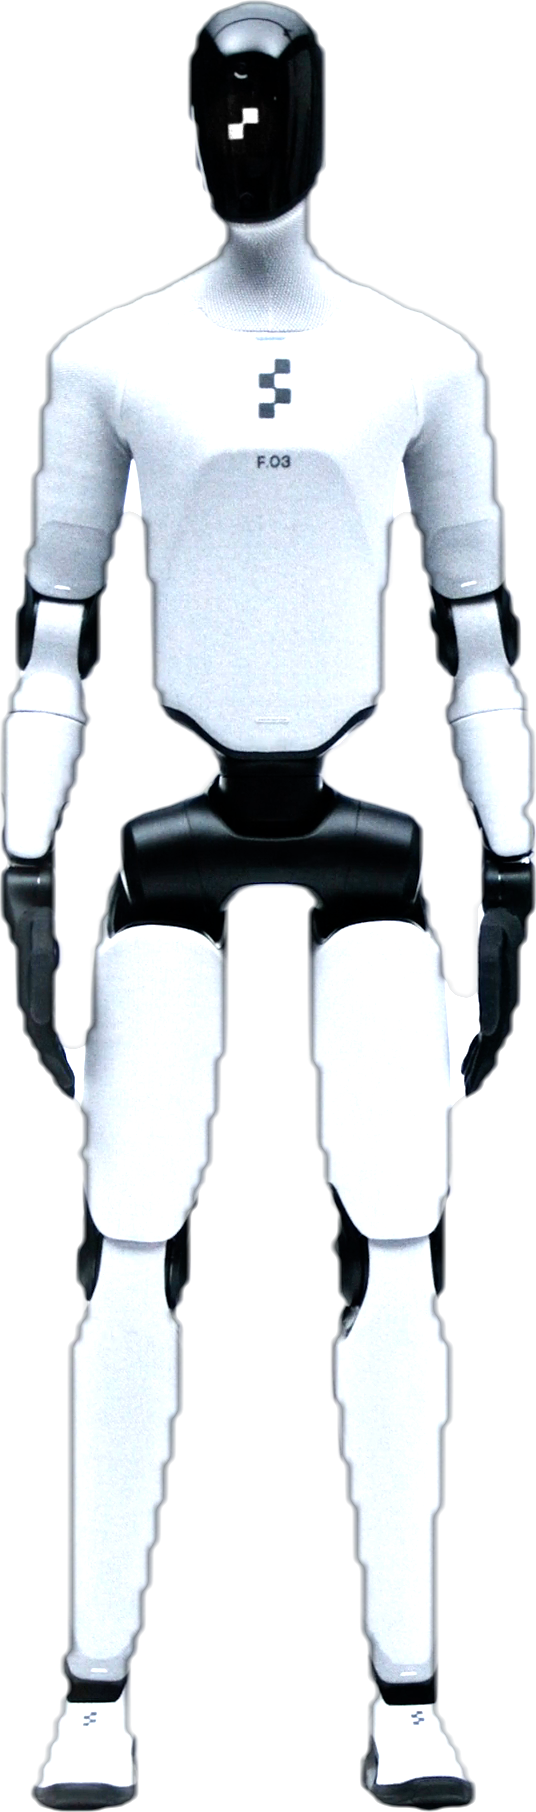
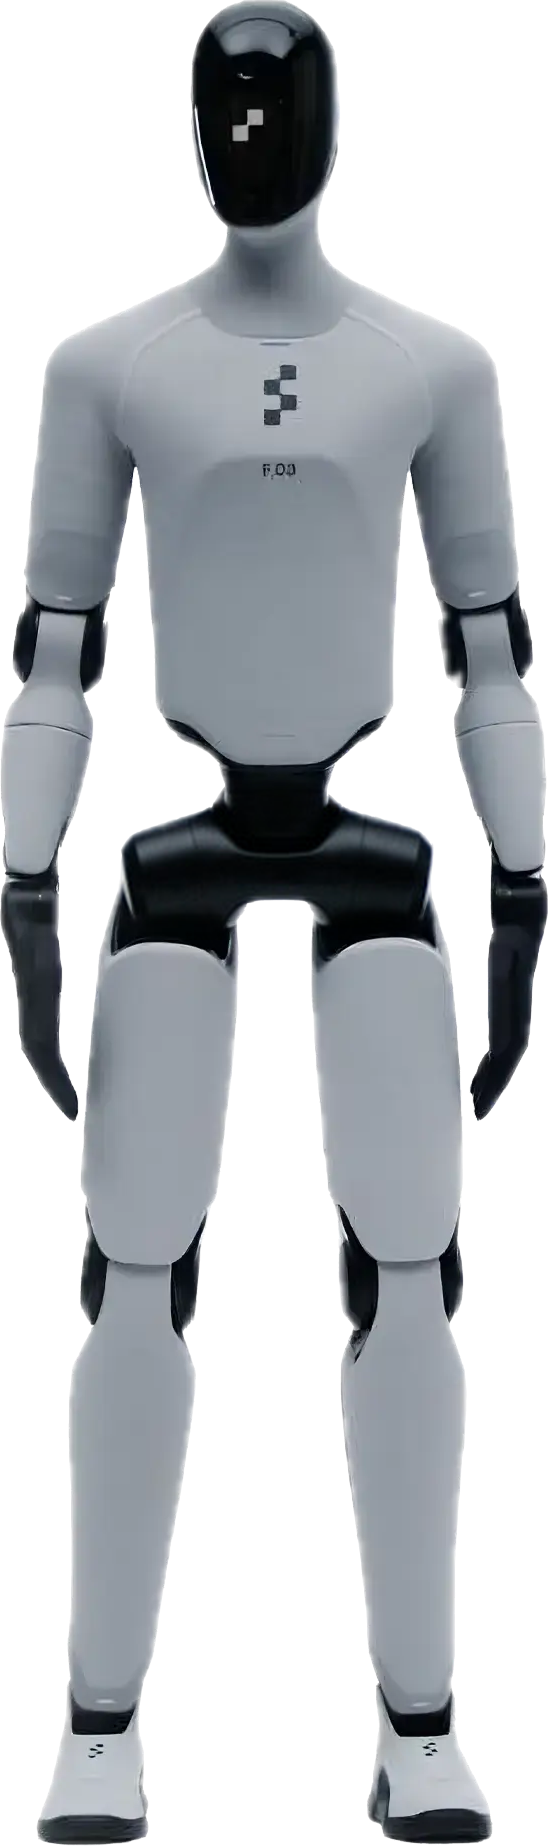
Fill out the Other lane and give it its own card proportion
Other had one member (Matic), so the wheel had nothing to scroll. Adds
five non-humanoid entries with cut-out art: Spot, Go2, Astro, Roomba
and aibo — the robot dogs people expect to find here plus the home
appliances that keep Matic company.

Single-view aspect is now per lane rather than one global constant.
A biped wants a tall frame; a wheeled appliance reads as an object, so
"other" goes square instead of letterboxing a landscape product shot
inside a portrait frame. Keyed to the LANE, never the robot — card
width feeds --nav-x and the arc inset, so a per-robot aspect would
slide the nav and arcs on every scroll past a different body plan.
Compare stays on its single 0.75; a matched pair needs one proportion.

Also re-cuts figure-03.png. The committed one was a rough matte with a
dark halo and the body blown out to near-white. Rebuilt from Figure's
watermarked press shot for resolution, with the watermark patched out
using their clean studio shot, colour-matched to the surrounding
pixels. True grey, no halo, 548x1846.

Claude-Session: https://claude.ai/code/session_01XMUtvWXwRqp37okRYZ7gfr

diff --git a/data/humanoids.ts b/data/humanoids.ts
@@ -862,6 +862,129 @@ const allHumanoids: Humanoid[] = [
     description: "Honda's pioneering bipedal humanoid. Retired in 2022 after 22 years of development.",
     tags: ["First to walk fluidly", "Retired 2022"],
   },
+
+  // ── Not human-shaped (`form: "other"`) ─────────────────────────────────────
+  // The Other lane. These aren't figures, they're objects — array order here is
+  // the order you scroll them in, since the wheel indexes the filtered list.
+  {
+    id: "142",
+    name: "Spot",
+    manufacturer: "Boston Dynamics",
+    country: "USA",
+    useCase: "Industrial",
+    form: "other",
+    drive: "Quadruped",
+    logoUrl: "/robots/Boston_Dynamics-logo.svg",
+    manufacturerUrl: "https://bostondynamics.com",
+    infoUrl: "https://bostondynamics.com/products/spot/",
+    imageUrl: "/robots/spot.png",
+    year: 2020,
+    addedAt: "2026-08-24",
+    status: "In Production",
+    availability: "enterprise",
+    height: 84,
+    weight: 32.7,
+    dof: 12,
+    maxSpeed: 1.6,
+    description: "The first legged robot you could actually buy. Spot walks the factory floors and tunnels wheels can't reach, carrying whatever sensors the job needs.",
+    tags: ["USA", "Industrial", "Quadruped", "Electric", "Widely deployed"],
+    engineering: {
+      payload: 14,
+      runtime: 1.5,
+      batteryCapacity: 0.564,
+      chargeTime: 60,
+      swappableBattery: true,
+      ipRating: "IP54",
+      operatingTemp: "-20\u201355\u00b0C",
+      connectivity: "WiFi / Ethernet",
+    },
+  },
+  {
+    id: "143",
+    name: "Go2",
+    manufacturer: "Unitree",
+    country: "China",
+    useCase: "Research",
+    form: "other",
+    drive: "Quadruped",
+    logoUrl: "/robots/Unitree-logo.svg",
+    manufacturerUrl: "https://www.unitree.com",
+    infoUrl: "https://shop.unitree.com/products/unitree-go2",
+    purchaseUrl: "https://shop.unitree.com/products/unitree-go2",
+    imageUrl: "/robots/unitree-go2.png",
+    year: 2023,
+    addedAt: "2026-08-24",
+    cost: "$1,600",
+    status: "In Production",
+    availability: "consumer",
+    height: 40,
+    weight: 15,
+    dof: 12,
+    maxSpeed: 3.7,
+    description: "Unitree put a capable robot dog within reach of anyone. The Go2 runs, climbs stairs and maps a room with lidar, for the price of a laptop.",
+    tags: ["China", "Research", "Quadruped", "Lidar", "$1,600 affordable"],
+  },
+  {
+    id: "144",
+    name: "Astro",
+    manufacturer: "Amazon",
+    country: "USA",
+    useCase: "Home",
+    form: "other",
+    drive: "Wheeled base",
+    manufacturerUrl: "https://www.amazon.com",
+    infoUrl: "https://www.amazon.com/dp/B078NSDFSB",
+    imageUrl: "/robots/astro.png",
+    year: 2021,
+    addedAt: "2026-08-24",
+    cost: "$1,599",
+    status: "In Production",
+    availability: "consumer",
+    height: 44,
+    weight: 9.4,
+    description: "Astro gives Alexa wheels and a face. It patrols the house, checks on rooms while you're out, and finds you when a call comes in.",
+    tags: ["USA", "Home", "Wheeled base", "Alexa built in", "Invite only"],
+  },
+  {
+    id: "145",
+    name: "Roomba",
+    manufacturer: "iRobot",
+    country: "USA",
+    useCase: "Home",
+    form: "other",
+    drive: "Wheeled base",
+    manufacturerUrl: "https://www.irobot.com",
+    infoUrl: "https://www.irobot.com/en_US/roomba.html",
+    imageUrl: "/robots/roomba.png",
+    year: 2002,
+    addedAt: "2026-08-24",
+    status: "In Production",
+    availability: "consumer",
+    description: "The first robot most people ever owned. iRobot has sold tens of millions of them by doing one job well and staying out of the way.",
+    tags: ["USA", "Home", "Wheeled base", "40M+ sold", "Category creator"],
+  },
+  {
+    id: "146",
+    name: "aibo",
+    manufacturer: "Sony",
+    country: "Japan",
+    useCase: "Home",
+    form: "other",
+    drive: "Quadruped",
+    manufacturerUrl: "https://us.aibo.com",
+    infoUrl: "https://us.aibo.com",
+    imageUrl: "/robots/aibo.png",
+    year: 2018,
+    addedAt: "2026-08-24",
+    cost: "$2,899",
+    status: "In Production",
+    availability: "consumer",
+    height: 29,
+    weight: 2.2,
+    dof: 22,
+    description: "aibo behaves like a puppy and learns who you are. Sony has been building robot dogs since 1999, longer than anyone.",
+    tags: ["Japan", "Home", "Quadruped", "22 joints", "Since 1999"],
+  },
 ];
 
 // ── Pending images (added 2026-08-24) ──────────────────────────────────────────
@@ -871,7 +994,7 @@ const allHumanoids: Humanoid[] = [
 //
 // To go live: drop the images in, add `imageUrl` to each entry, flip this to true.
 // Assets still needed:
-//   figure-03.png ✓ · unitree-r1.png · xpeng-iron.png · agibot-a2.png · walker-s2.png · matic.png
+//   figure-03.png ✓ · matic.png ✓ · unitree-r1.png · xpeng-iron.png · agibot-a2.png · walker-s2.png
 //   Xpeng-logo.svg · AgiBot-logo.svg   (Figure / Unitree / UBTech logos already exist)
 // Visible on localhost, never in a production build — so these can be reviewed
 // in the browser without any risk of shipping a half-finished entry.
@@ -888,6 +1011,7 @@ const pendingImageHumanoids: Humanoid[] = [
     drive: "Wheeled base",
     form: "other",
     manufacturerUrl: "https://maticrobots.com",
+    imageUrl: "/robots/matic.png",
     year: 2024,
     addedAt: "2026-08-24",
     status: "In Production",

diff --git a/app/HomeClient.tsx b/app/HomeClient.tsx
@@ -2225,7 +2225,23 @@ function Browse({ goToId, homeNonce = 0, navStyle, onNavStyleChange, switcherSty
   // Single view is the hero shot rather than one of a matched pair, so it gets
   // a squarer frame; compare stays tighter since the eye is measuring two
   // cards against each other there.
-  const SINGLE_ASPECT = 0.88;
+  // ...and each lane gets its own single-view proportion. A full biped wants a
+  // tall frame; a wheeled appliance like Matic reads as an object rather than a
+  // figure, so the "other" lane goes square and stops letterboxing a landscape
+  // product shot inside a portrait frame.
+  //
+  // Per LANE, never per robot. Card width feeds `--nav-x` and the arc inset, so
+  // a per-robot aspect would slide the nav, footer and arcs every time you
+  // scrolled between two body plans. A lane change already animates, and the
+  // chips make it an explicit move, so resizing there reads as intent.
+  // Compare is deliberately excluded — a matched pair needs one shared
+  // proportion regardless of what the two robots are.
+  const SINGLE_ASPECT_BY_FORM: Record<FormFilter, number> = {
+    humanoid: 0.88,
+    semi: 0.88,
+    other: 1.0,
+  };
+  const SINGLE_ASPECT = SINGLE_ASPECT_BY_FORM[formFilter];
   const cardPxFor = (wVw: number, hVh: number, maxPx: number, aspect: number) =>
     Math.min(
       wVw * windowWidth / 100,
@@ -2337,7 +2353,7 @@ function Browse({ goToId, homeNonce = 0, navStyle, onNavStyleChange, switcherSty
     const contentW = cardPxStable + statsGap + statsColStable;
     const x = Math.max(16, Math.round((windowWidth - contentW) / 2));
     document.documentElement.style.setProperty("--nav-x", `${x}px`);
-  }, [autoNavX, navX, windowWidth, windowHeight, robotW, robotH, robotMaxW, statsW, statsGap, stackedInfo, statsColScale]);
+  }, [autoNavX, navX, windowWidth, windowHeight, robotW, robotH, robotMaxW, statsW, statsGap, stackedInfo, statsColScale, SINGLE_ASPECT]);
 
   // Publish nav top offset as a CSS variable
   useEffect(() => {
